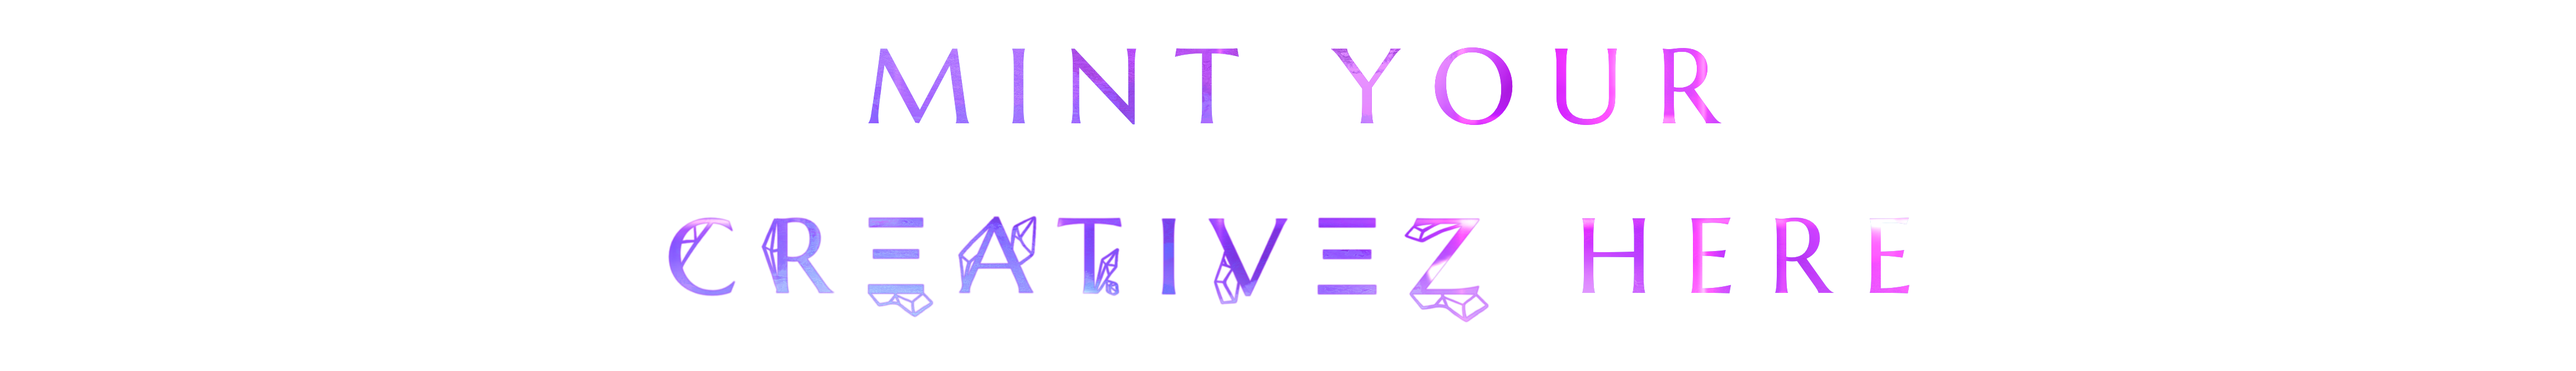
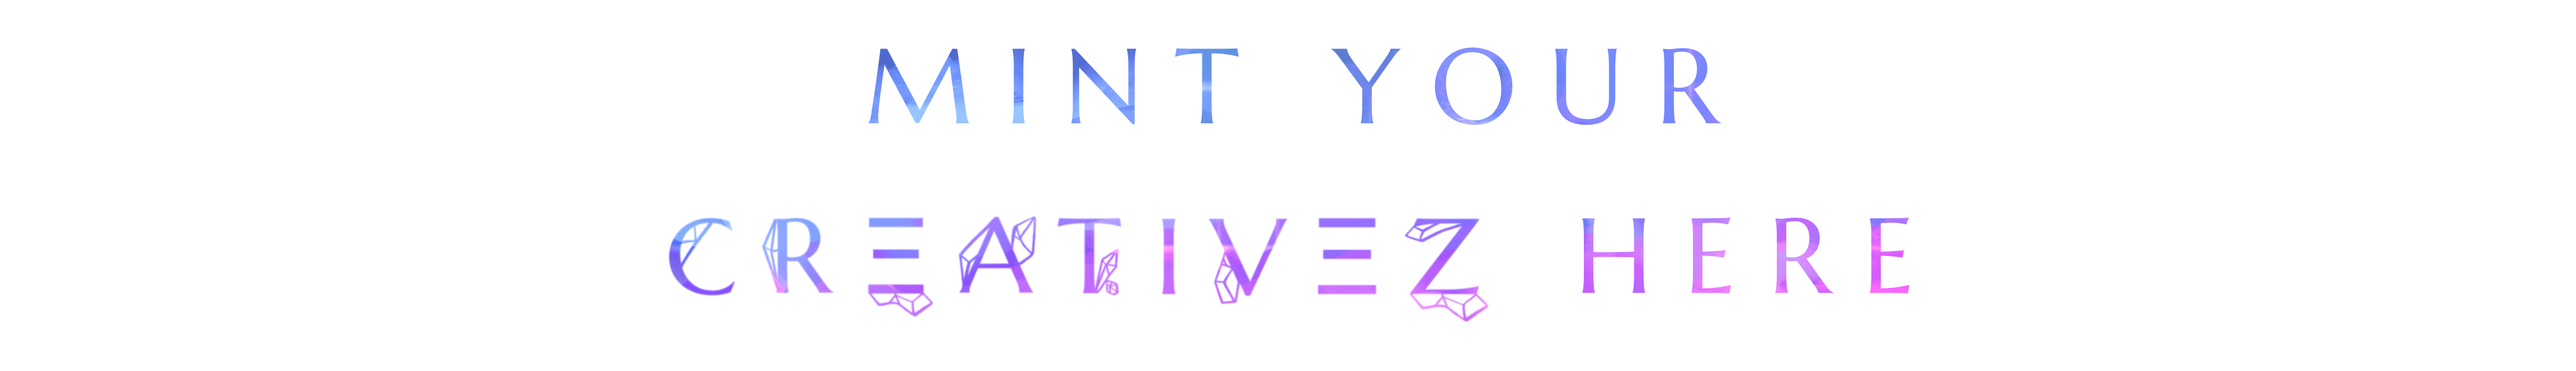
Title Gradient Updates

Changed region(s): [[0.2484, 0.5714, 0.7451, 0.8722], [0.3105, 0.1203, 0.683, 0.3308], [0.5899, 0.7519, 0.6209, 0.782]]

diff --git a/src/components/Home.js b/src/components/Home.js
@@ -261,11 +261,6 @@ const ButtonGroup = styled.div`
     z-index: 1;
     margin-top: 2vh;
     margin-bottom: 2vh;
-    @media (max-width: 1550px) {
-      flex-direction: column;
-      align-items: center;
-      justify-content: center;
-    }
 `
 
 const CardBox = styled.div`
